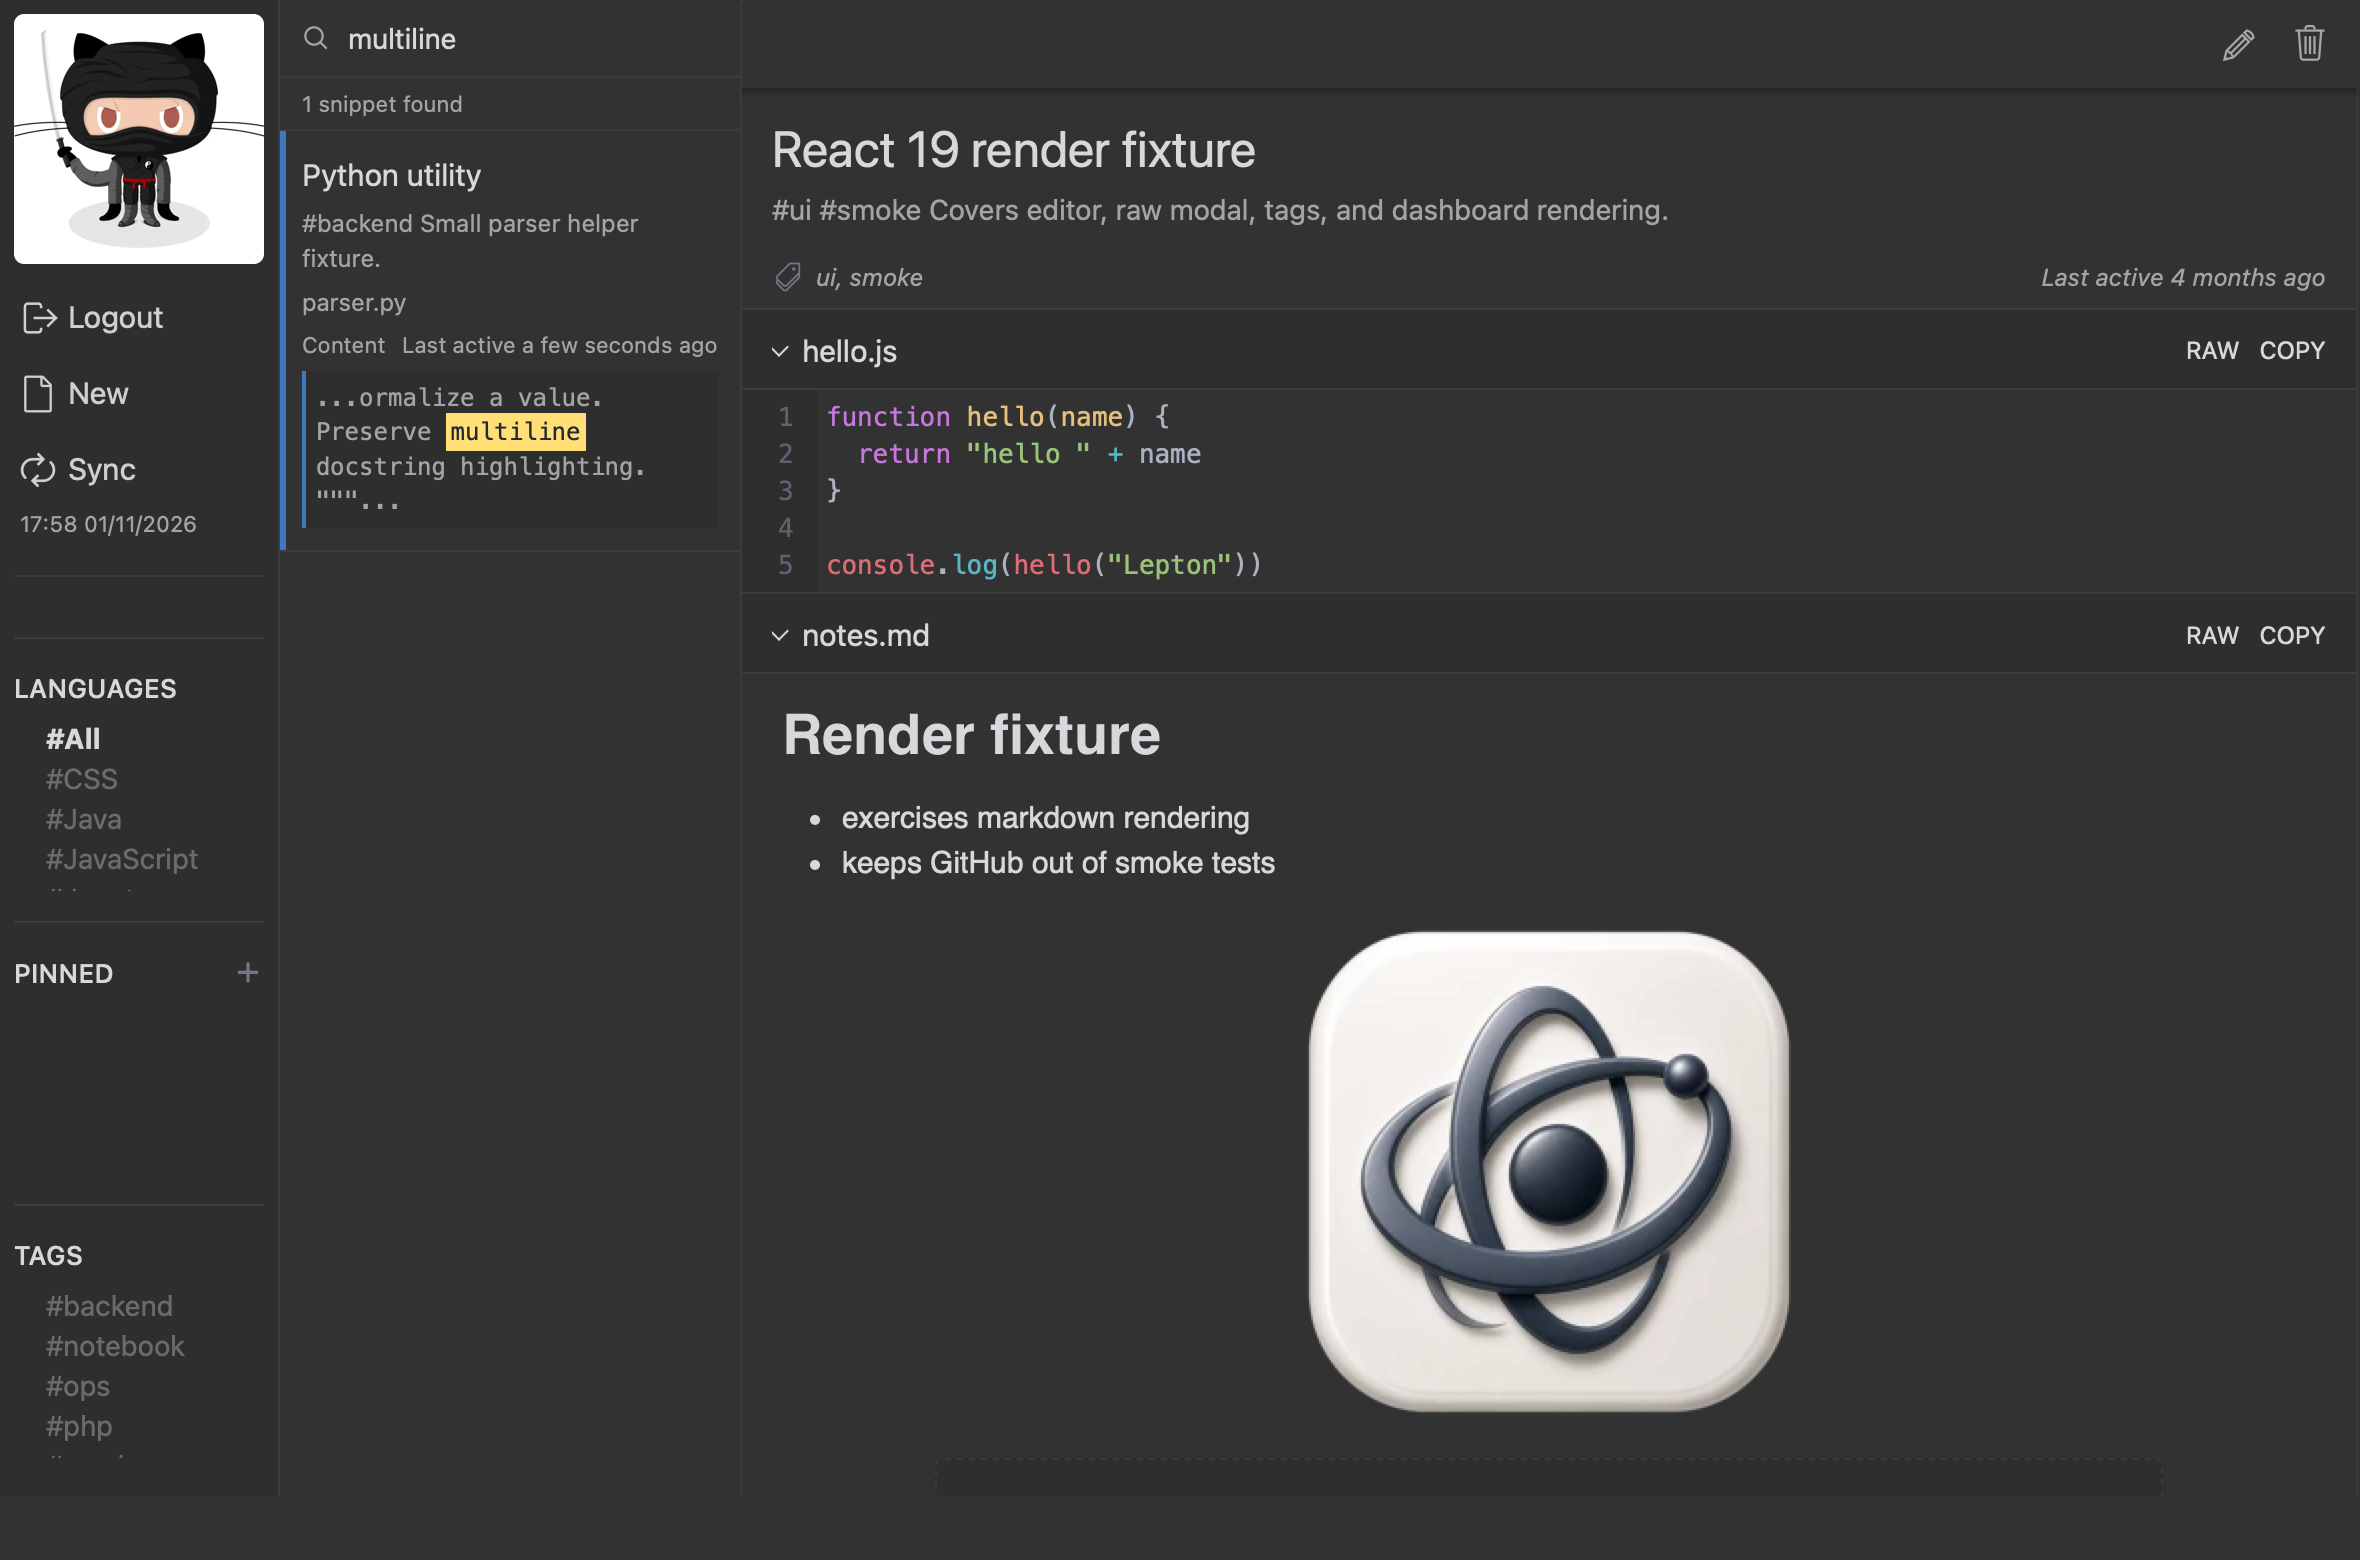
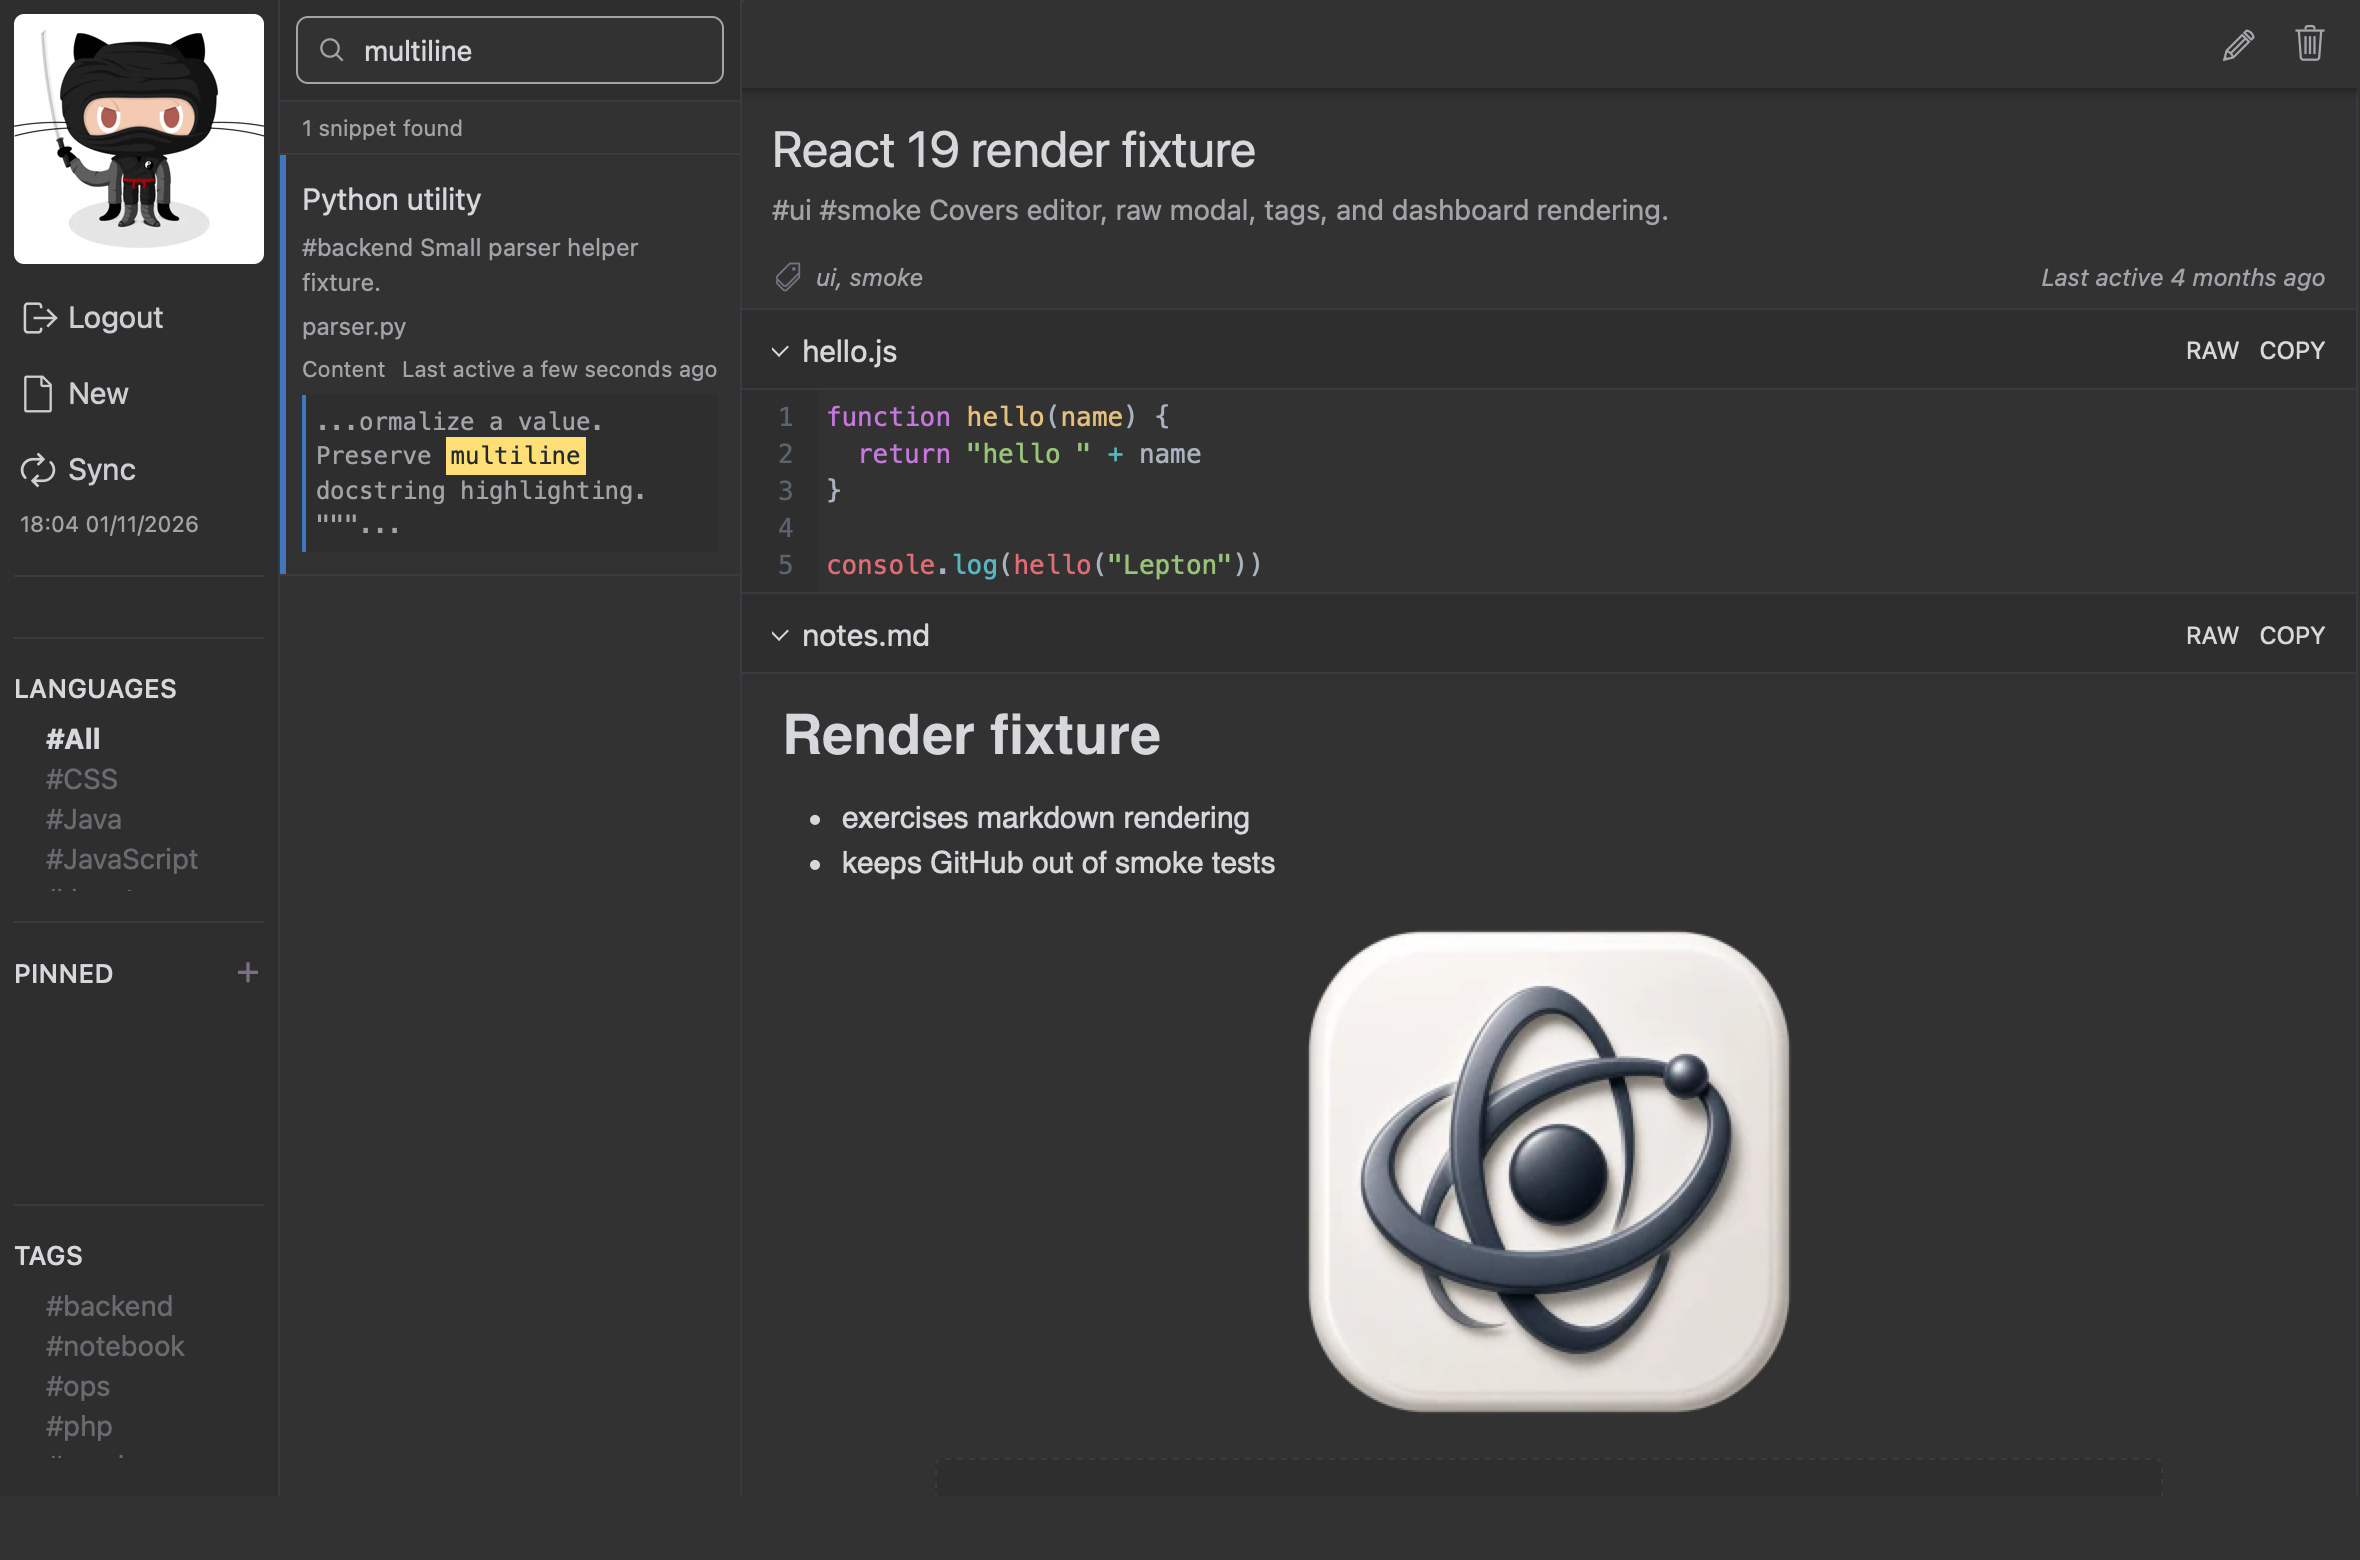
Make embedded search easier to see

Changed region(s): [[0.1237, 0.0, 0.3093, 0.3385], [0.0309, 0.3077, 0.0619, 0.3385]]

diff --git a/prototypes/tauri/legacy/embeddedSearch.js b/prototypes/tauri/legacy/embeddedSearch.js
@@ -141,13 +141,15 @@ class EmbeddedSearch extends BaseNavigationPanelDetails {
     const selected = Math.min(this.state.selectedIndex, Math.max(0, results.length - 1))
     return <div className='panel-thumbnails-background embedded-search-panel'>
       <div className='embedded-search-bar' role='search'>
-        <svg viewBox='0 0 24 24' aria-hidden='true'><circle cx='10.5' cy='10.5' r='6.5' /><path d='m15.5 15.5 4.5 4.5' /></svg>
-        <input ref={ node => { this.input = node } } type='search' className='embedded-search-input' role='combobox'
-          aria-label={ t('search.placeholder') } aria-autocomplete='list' aria-expanded={ Boolean(query) }
-          aria-controls='embedded-search-results' aria-activedescendant={ query && results.length ? `embedded-result-${selected}` : undefined }
-          placeholder={ t('menu.search') } value={ this.state.query }
-          onChange={ event => this.setState({ query: event.target.value, selectedIndex: 0 }) }
-          onKeyDown={ event => this.handleSearchKeyDown(event) } />
+        <div className='embedded-search-control'>
+          <svg viewBox='0 0 24 24' aria-hidden='true'><circle cx='10.5' cy='10.5' r='6.5' /><path d='m15.5 15.5 4.5 4.5' /></svg>
+          <input ref={ node => { this.input = node } } type='search' className='embedded-search-input' role='combobox'
+            aria-label={ t('search.placeholder') } aria-autocomplete='list' aria-expanded={ Boolean(query) }
+            aria-controls='embedded-search-results' aria-activedescendant={ query && results.length ? `embedded-result-${selected}` : undefined }
+            placeholder={ t('menu.search') } value={ this.state.query }
+            onChange={ event => this.setState({ query: event.target.value, selectedIndex: 0 }) }
+            onKeyDown={ event => this.handleSearchKeyDown(event) } />
+        </div>
       </div>
       { query
         ? <div className='embedded-search-count' role='status' aria-live='polite'>

diff --git a/prototypes/tauri/legacy/local.css b/prototypes/tauri/legacy/local.css
@@ -40,11 +40,12 @@ body.lepton-creating-snippet .snippet-panel-content > :not(.inline-new-editor) {
 
 .embedded-search-panel { display: flex; flex-direction: column; }
 .embedded-search-panel .panel-thumbnails-scroll { flex: 1 1 auto; min-height: 0; height: auto; }
-.embedded-search-bar { display: flex; align-items: center; gap: 7px; flex: 0 0 auto; padding: 8px 10px; border-bottom: 1px solid var(--border-color); background: var(--bg-primary); }
-.embedded-search-bar svg { width: 16px; height: 16px; flex: 0 0 16px; fill: none; stroke: var(--text-secondary); stroke-width: 1.7; }
+.embedded-search-bar { flex: 0 0 auto; padding: 8px; border-bottom: 1px solid var(--border-color); background: var(--bg-secondary); }
+.embedded-search-control { display: flex; align-items: center; gap: 7px; min-height: 34px; padding: 0 9px; border: 1px solid var(--text-secondary); border-radius: 6px; background: var(--bg-primary); }
+.embedded-search-control svg { width: 16px; height: 16px; flex: 0 0 16px; fill: none; stroke: var(--text-secondary); stroke-width: 1.7; }
 .embedded-search-input { width: 100%; min-width: 0; border: 0; outline: 0; background: transparent; color: var(--text-primary); font-size: 14px; }
 .embedded-search-input::placeholder { color: var(--text-secondary); opacity: 1; }
-.embedded-search-bar:focus-within { box-shadow: inset 0 -2px #4078c0; }
+.embedded-search-control:focus-within { border-color: #4078c0; box-shadow: 0 0 0 2px rgba(64, 120, 192, .25); }
 .embedded-search-count { padding: 5px 11px; color: var(--text-secondary); background: var(--bg-primary); border-bottom: 1px solid var(--border-color); font-size: 11px; }
 .embedded-search-panel .embedded-search-selected { box-shadow: inset 3px 0 #4078c0; }
 .embedded-search-panel mark { color: #24292f; background: #ffdf76; }
